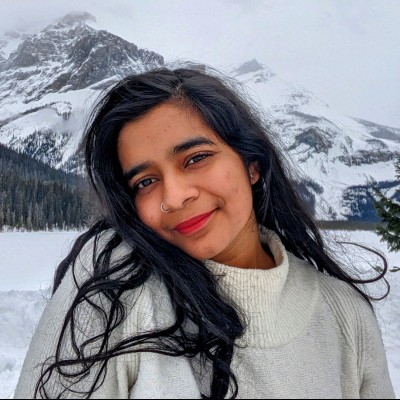
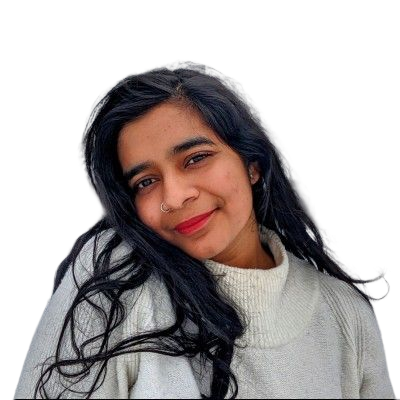
added transparent profile pic

diff --git a/public/styles/header.css b/public/styles/header.css
@@ -1,6 +1,6 @@
 body>header  {
   display: flex;
-  height: 520px; /* 400px + 120px fixed nav */
+  height: 500px; 
   width: 100%;
   flex-direction: column;
   align-items: center;
